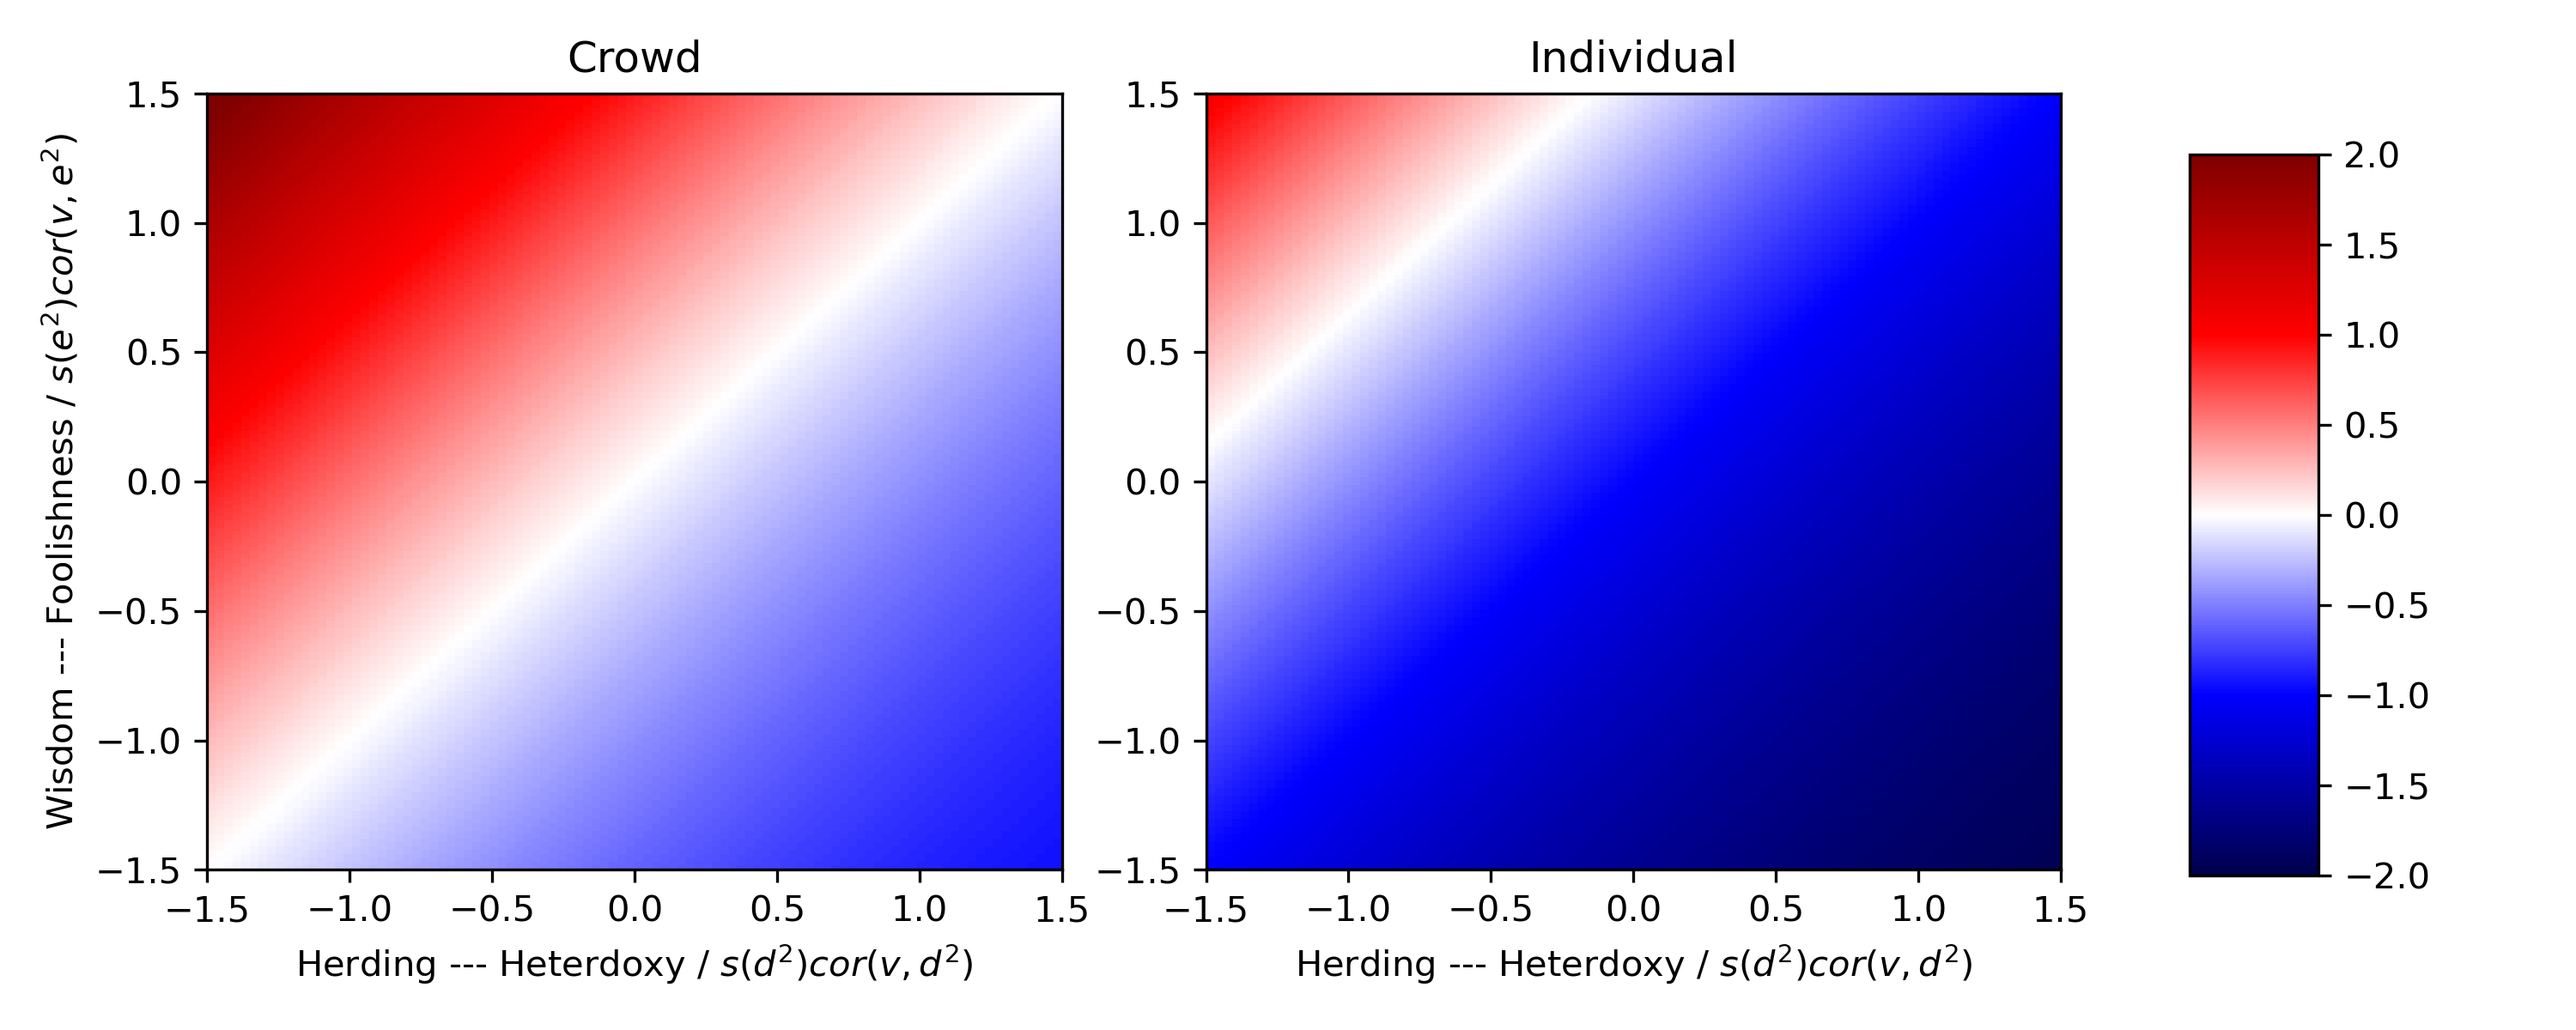
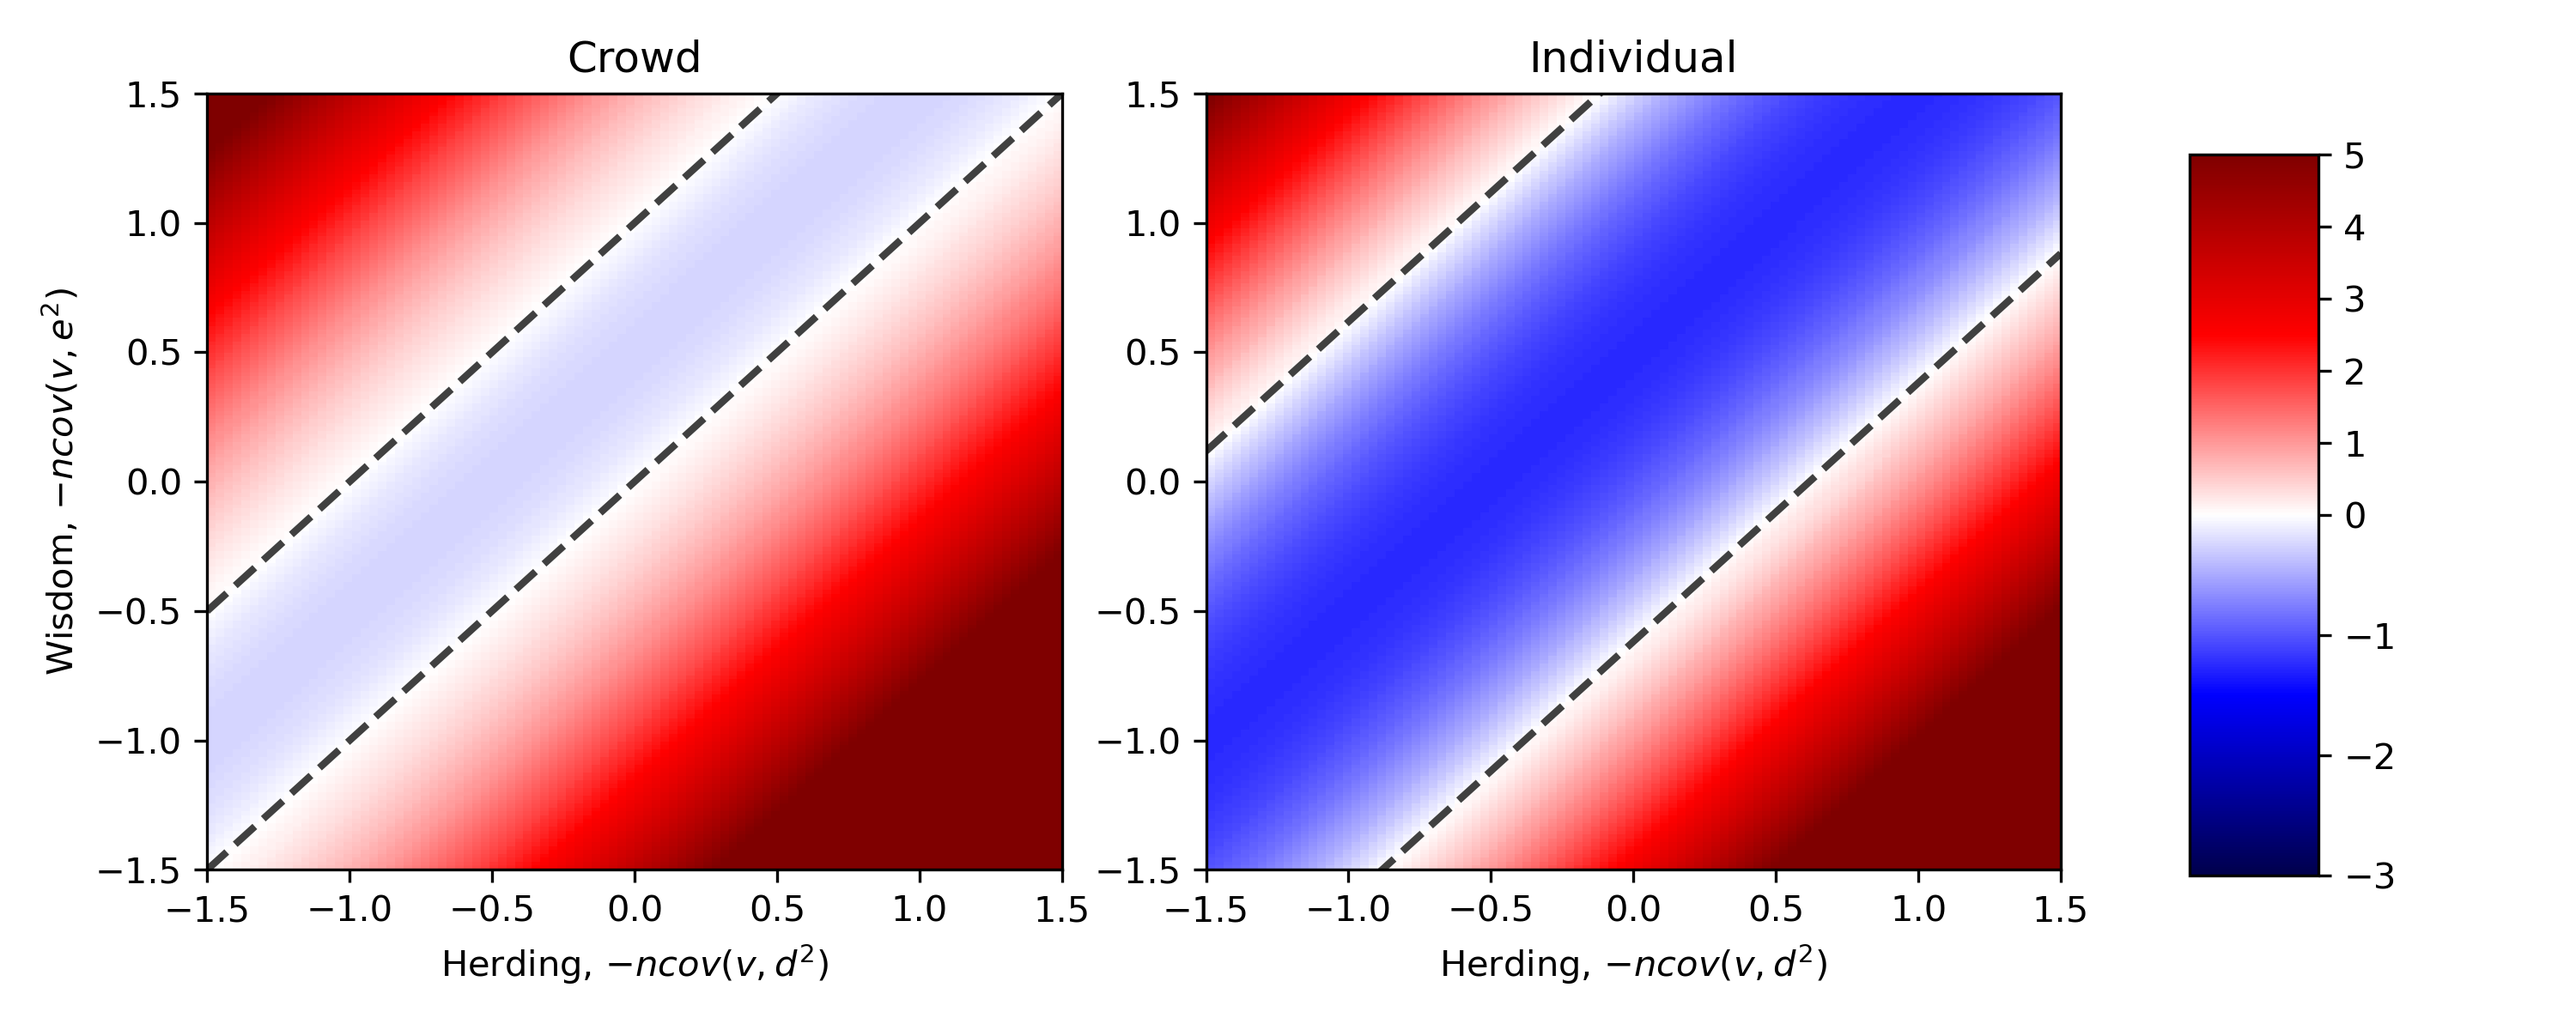
UPdated some figures

diff --git a/robust_benefits_test.py b/robust_benefits_test.py
@@ -234,6 +234,95 @@ class TestIndyErrorAsymptoticExpanded(unittest.TestCase):
 
 
 
+class TestCrowdErrorWisdomHerding(unittest.TestCase):
+
+	def test_crowd_error_wisdom_herding(self):
+		"""
+		The actual test.
+		Any method which starts with ``test_`` will considered as a test case.
+		"""
+		for seed in range(10):
+			np.random.seed(seed)
+			n = 100
+			# Random opinions
+			opinions = np.random.rand(n)
+			# Random influnce network
+			W = np.random.rand(n,n)
+			# Standardise the influence network
+			W = W/W.sum(axis=1)[:,None]
+			# Random truth
+			truth = np.random.rand()
+			# Run the simulation
+			sim_asym_change_crowd_error_stnd = robust_benefits_sim.sim_asymptotic_change_in_crowd_error_standardised(opinions, W, truth)
+			
+			v = get_eigenweights(W)
+
+			e = opinions - truth
+			e_2 = (opinions - truth)**2
+			d_2 = (opinions - np.mean(opinions))**2
+			mean_e = np.mean(e)
+
+			cov_v_e2 = np.cov(v, e_2, bias=True)[0,1]
+			cov_v_d2 = np.cov(v, d_2, bias=True)[0,1]
+
+			wisdom = - n * cov_v_e2
+			herding = - n * cov_v_d2
+			
+			# Run the function
+			func_asym_change_crowd_error_w_h = robust_benefits.get_asymptotic_change_in_crowd_error_w_h(
+				wisdom, herding, mean_e)
+
+			std_e = np.std(e)
+
+			sim_asym_change_crowd_error = sim_asym_change_crowd_error_stnd * std_e**2
+
+			assert np.isclose(sim_asym_change_crowd_error, func_asym_change_crowd_error_w_h)
+
+
+
+class TestIndyErrorWisdomHerding(unittest.TestCase):
+
+	def test_indy_error_wisdom_herding(self):
+		"""
+		The actual test.
+		Any method which starts with ``test_`` will considered as a test case.
+		"""
+		for seed in range(10):
+			np.random.seed(seed)
+			n = 100
+			# Random opinions
+			opinions = np.random.rand(n)
+			# Random influnce network
+			W = np.random.rand(n,n)
+			# Standardise the influence network
+			W = W/W.sum(axis=1)[:,None]
+			# Random truth
+			truth = np.random.rand()
+			# Run the simulation
+			sim_asym_change_indy_error_stnd = robust_benefits_sim.sim_asymptotic_change_in_individual_error_standardised(opinions, W, truth)
+			
+			v = get_eigenweights(W)
+
+			e = opinions - truth
+			e_2 = (opinions - truth)**2
+			d_2 = (opinions - np.mean(opinions))**2
+			mean_e = np.mean(e)
+
+			cov_v_e2 = np.cov(v, e_2, bias=True)[0,1]
+			cov_v_d2 = np.cov(v, d_2, bias=True)[0,1]
+
+			wisdom = - n * cov_v_e2
+			herding = - n * cov_v_d2
+
+			std_e = np.std(e)
+			
+			# Run the function
+			func_asym_change_indy_error_w_h = robust_benefits.get_asymptotic_change_in_individual_error_w_h(
+				wisdom, herding, mean_e, std_e)
+
+			sim_asym_change_indy_error = sim_asym_change_indy_error_stnd * std_e**2
+
+			assert np.isclose(sim_asym_change_indy_error, func_asym_change_indy_error_w_h)
 
 if __name__ == '__main__':
 	unittest.main()

diff --git a/plots/plot_change_in_error_wisdom_herding.py b/plots/plot_change_in_error_wisdom_herding.py
@@ -1,0 +1,74 @@
+
+import numpy as np
+import matplotlib.pyplot as plt
+import matplotlib.colors as mcolors
+
+import sys
+sys.path.append("..")
+from robust_benefits import get_asymptotic_change_in_crowd_error_w_h, get_asymptotic_change_in_individual_error_w_h
+
+mean_e = 0.5
+std_e = 1
+
+wisdoms = np.linspace(-1.5,1.5,200)
+herdings = np.linspace(-1.5,1.5,100)
+
+delta_error_squared_crowd = np.zeros((len(wisdoms), len(herdings)))
+delta_error_squared_indy = np.zeros((len(wisdoms), len(herdings)))
+
+divnorm = mcolors.TwoSlopeNorm(vmin=-3, vcenter=0, vmax=5)
+
+for i, wisdom in enumerate(wisdoms):
+	for j, herding in enumerate(herdings):
+		
+		delta_error_squared_crowd[i, j] = get_asymptotic_change_in_crowd_error_w_h(wisdom, herding, mean_e)
+		delta_error_squared_indy[i, j] = get_asymptotic_change_in_individual_error_w_h(wisdom, herding, mean_e, std_e)
+
+fig = plt.figure(figsize=(10,4))
+
+plt.subplot(1, 2, 1)		
+plt.imshow(delta_error_squared_crowd, norm=divnorm, cmap='seismic', interpolation='nearest', aspect='auto', origin='lower', extent=[min(herdings), max(herdings), min(wisdoms), max(wisdoms)])
+
+
+wisdom_boundary_1 = herdings
+wisdom_boundary_2 = herdings + 4*mean_e**2
+
+plt.plot(herdings, wisdom_boundary_1, color='#404040', linewidth=2, linestyle="dashed")  # Use a contrasting color
+plt.plot(herdings, wisdom_boundary_2, color='#404040', linewidth=2, linestyle="dashed")  # Use a contrasting color
+
+plt.xlim(min(herdings), max(herdings))
+plt.ylim(min(wisdoms), max(wisdoms))
+
+plt.title("Crowd")
+plt.xlabel(r"Herding, $- n cov(v, d^2)$")
+plt.ylabel(r"Wisdom, $- n cov(v, e^2)$")
+
+
+
+plt.subplot(1, 2, 2)		
+plt.imshow(delta_error_squared_indy, norm=divnorm, cmap='seismic', interpolation='nearest', aspect='auto', origin='lower', extent=[min(herdings), max(herdings), min(wisdoms), max(wisdoms)])
+
+wisdom_boundary_1 = herdings + 2 * mean_e**2 + 2*mean_e * np.sqrt(mean_e**2 + std_e**2)
+wisdom_boundary_2 = herdings + 2 * mean_e**2 - 2*mean_e * np.sqrt(mean_e**2 + std_e**2)
+
+plt.plot(herdings, wisdom_boundary_1, color='#404040', linewidth=2, linestyle="dashed")  # Use a contrasting color
+plt.plot(herdings, wisdom_boundary_2, color='#404040', linewidth=2, linestyle="dashed")  # Use a contrasting color
+
+plt.xlim(min(herdings), max(herdings))
+plt.ylim(min(wisdoms), max(wisdoms))
+
+
+plt.title("Individual")
+plt.xlabel(r"Herding, $- n cov(v, d^2)$")
+
+plt.tight_layout()
+
+fig.subplots_adjust(right=0.8)
+cbar_ax = fig.add_axes([0.85, 0.15, 0.05, 0.7])
+sm = plt.cm.ScalarMappable(cmap='seismic', norm=divnorm)
+sm.set_array([])
+fig.colorbar(sm, cax=cbar_ax)
+
+plt.savefig("images/herding_vs_wisdom.png", dpi=300)
+
+plt.show()

diff --git a/plots/plot_change_in_error_with_accuracy_correlation.py b/plots/plot_change_in_error_with_accuracy_correlation.py
@@ -5,36 +5,48 @@ import matplotlib.colors as mcolors
 
 import sys
 sys.path.append("..")
-from robust_benefits import get_asymptotic_change_in_crowd_error_expanded
+from robust_benefits import get_asymptotic_change_in_crowd_error_expanded, get_asymptotic_change_in_individual_error_expanded
 
 cv= 0.5
-mean_e = 1
+mean_e = 0.5
 
-cor_v_e2s = np.linspace(-1.5,1.5,200)
-cor_v_d2s = np.linspace(-1.5,1.5,100)
+cor_v_e2s = np.linspace(-5,5,200)
+cor_v_d2s = np.linspace(-5,5,100)
 
 std_e2 = 1
 std_d2 = 1
+std_e = 1
 
-delta_error_squared = np.zeros((len(cor_v_e2s), len(cor_v_d2s)))
+delta_error_squared_crowd = np.zeros((len(cor_v_e2s), len(cor_v_d2s)))
+delta_error_squared_indy = np.zeros((len(cor_v_e2s), len(cor_v_d2s)))
 
 divnorm = mcolors.TwoSlopeNorm(vmin=-2, vcenter=0, vmax=2)
 
 for i, cor_ve2 in enumerate(cor_v_e2s):
 	for j, cor_vd2 in enumerate(cor_v_d2s):
 		
-		delta_error_squared[i, j] = get_asymptotic_change_in_crowd_error_expanded(cv, cor_ve2, cor_vd2, mean_e, std_e2, std_d2)
+		delta_error_squared_crowd[i, j] = get_asymptotic_change_in_crowd_error_expanded(cv, cor_ve2, cor_vd2, mean_e, std_e2, std_d2)
+		delta_error_squared_indy[i, j] = get_asymptotic_change_in_individual_error_expanded(cv, cor_ve2, cor_vd2, mean_e, std_e2, std_d2, std_e)
+
 
 fig = plt.figure(figsize=(10,4))
 
 plt.subplot(1, 2, 1)		
-plt.imshow(delta_error_squared, norm=divnorm, cmap='seismic', interpolation='nearest', aspect='auto', origin='lower',  extent=[-1.5, 1.5, -1.5, 1.5])
+plt.imshow(delta_error_squared_crowd, norm=divnorm, cmap='seismic', interpolation='nearest', aspect='auto', origin='lower',  extent=[min(cor_v_e2s), max(cor_v_e2s), min(cor_v_d2s), max(cor_v_d2s)])
+
+if cv > 0:
+	cor__v_d2_boundary = cor_v_e2s
+	plt.plot(cor_v_e2s, cor__v_d2_boundary, color='#404040', linewidth=2, linestyle="dashed")  # Use a contrasting color
+	
 plt.title("Crowd")
 plt.xlabel(r"Herding --- Heterdoxy / $s(d^2) cor(v, d^2)$")
 plt.ylabel(r"Wisdom --- Foolishness / $s(e^2) cor(v, e^2)$")
 
 plt.subplot(1, 2, 2)		
-plt.imshow(delta_error_squared - 1, norm=divnorm, cmap='seismic', interpolation='nearest', aspect='auto', origin='lower',  extent=[-1.5, 1.5, -1.5, 1.5])
+plt.imshow(delta_error_squared_indy, norm=divnorm, cmap='seismic', interpolation='nearest', aspect='auto', origin='lower', extent=[min(cor_v_e2s), max(cor_v_e2s), min(cor_v_d2s), max(cor_v_d2s)])
+
+
+
 plt.title("Individual")
 plt.xlabel(r"Herding --- Heterdoxy / $s(d^2) cor(v, d^2)$")
 

diff --git a/plots/plot_quadratic_curve_error_wisdom_herding.py b/plots/plot_quadratic_curve_error_wisdom_herding.py
@@ -1,0 +1,32 @@
+
+import numpy as np
+import matplotlib.pyplot as plt
+
+wisdom_minus_herdings = np.linspace(-2,2,200)
+
+mean_e = 0.5
+
+std_e = 1
+
+change_crowd_error = [1/(4*mean_e**2) * beta**2 - beta for beta in wisdom_minus_herdings]
+change_indy_error = [1/(4*mean_e**2) * beta**2 - beta - std_e**2 for beta in wisdom_minus_herdings]
+
+plt.plot(wisdom_minus_herdings, change_crowd_error, label="Crowd", linewidth=3, color="#f39c12")
+plt.plot(wisdom_minus_herdings, change_indy_error, label="Individual", linewidth=3, color="#9b59b6")
+
+# PLot y = 0 line
+plt.axhline(y=0, color='k', linestyle='--')
+
+# Remove plot boundary lines
+plt.gca().spines['top'].set_visible(False)
+plt.gca().spines['right'].set_visible(False)
+
+
+plt.legend()
+
+plt.xlabel(r"Wisdom - Herding")
+plt.ylabel(r"Asymptotic Change in Error")
+
+plt.savefig("images/error_curve_wisdom_minus_herding.png", dpi=300)
+
+plt.show()

diff --git a/robust_benefits.py b/robust_benefits.py
@@ -9,6 +9,15 @@ def get_asymptotic_change_in_crowd_error_expanded(Cv, cor_v_e_2, cor_v_d_2, mean
     A = std_e2 * cor_v_e_2 - std_d2 * cor_v_d_2
     return Cv**2 * A**2 / (4*mean_e**2) + Cv * A
 
+    
 def get_asymptotic_change_in_individual_error_expanded(Cv, cor_v_e_2, cor_v_d_2, mean_e, std_e2, std_d2, std_e):
     A = std_e2 * cor_v_e_2 - std_d2 * cor_v_d_2
     return Cv**2 * A**2 / (4*mean_e**2) + Cv * A - std_e**2
+
+def get_asymptotic_change_in_crowd_error_w_h(wisdom, herding, mean_e):
+   
+    return (herding-wisdom) * ( 1/(4*mean_e**2) * (herding-wisdom) + 1)
+
+def get_asymptotic_change_in_individual_error_w_h(wisdom, herding, mean_e, std_e):
+   
+    return (herding-wisdom) * ( 1/(4*mean_e**2) * (herding-wisdom) + 1) - std_e**2

diff --git a/plots/plot_change_in_error_simple.py b/plots/plot_change_in_error_simple.py
@@ -70,6 +70,7 @@ for k, cv in enumerate(cvs):
 	
 	plt.xlim(min_z, max_z)
 	plt.ylim(min_cor, max_cor)
+	
 
 	if k == 0:
 		plt.ylabel(r"r(v,e)")
